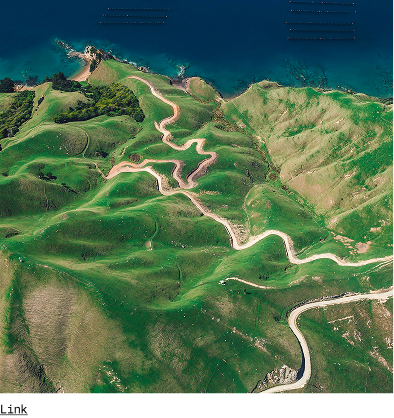
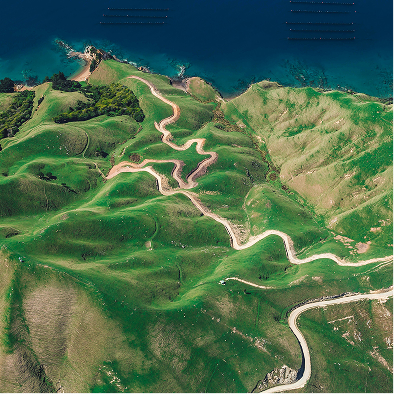
Adding structure and style for how-to

diff --git a/MPL.html b/MPL.html
@@ -299,8 +299,53 @@
                     </div>
                 </div>
             </section>
-            <section id="how-to" class="how-to"></section>
-            <section id="contact" class="contact"></section>
+            <section id="how-to" class="how-to">
+                <div class="container">
+                    <div class="how-to-wrapper">
+                        <div class="how-to-top">
+                            <h2>Map Your Success</h2>
+                            <a href="#" class="button" target="_blank">Discover More</a>
+                        </div>
+                        <div class="lockup">
+                            <article class="lockup-card">
+                                <p class="card-number">01</p>
+                                <div class="card-content">
+                                    <h3>Get started</h3>
+                                    <p>With our intuitive setup, you’re up and running in minutes.</p>
+                                </div>
+                            </article>
+                            <article class="lockup-card">
+                                <p class="card-number">02</p>
+                                <div class="card-content">
+                                    <h3>Customize and Configure</h3>
+                                    <p>Adapt Area to your specific requirements and preferences.</p>
+                                </div>
+                            </article>
+                            <article class="lockup-card">
+                                <p class="card-number">03</p>
+                                <div class="card-content">
+                                    <h3>Grow Your Business</h3>
+                                    <p>Make informed decisions to exceed your goals.</p>
+                                </div>
+                            </article>
+                        </div>
+                    </div>
+                    <img src="img/Image 2.jpg" alt="An eye-catching landscape of green">
+                </div>
+            </section>
+            <section id="contact" class="contact">
+                <div class="container">
+                    <div class="contact-wrapper">
+                        <h2>Connect with us</h2>
+                        <p>Schedule a quick call to learn how Area can turn your regional data into a powerful advantage.</p>
+                        <a href="#" class="button">Learn More
+                            <svg width="6" height="7" viewBox="0 0 6 7" fill="none" xmlns="http://www.w3.org/2000/svg">
+                                <path d="M5.01037 4.9934V1.05184L5.64939 1.09142L0.735155 6.01131L0 5.27615L4.91423 0.361923L4.96513 1.00094H1.0066V0L6 0.0113101V4.9934H5.01037Z" fill="white"/>
+                            </svg>
+                        </a>
+                    </div>
+                </div>
+            </section>
         <footer>
             <div class="container">
                 <div class="links"></div>

diff --git a/MPL.css b/MPL.css
@@ -413,3 +413,82 @@ p.number {
     letter-spacing: -0.003em;
     color: #485C11;
 }
+
+/*how-to*/
+.how-to-wrapper {
+    padding: 80px 0 100px 0;
+    border-top: 1px solid #E5E5E5;
+
+    display: flex;
+    flex-direction: column;
+    gap: 80px;
+}
+
+.how-to-top {
+    max-width: 343px;
+    display: flex;
+    flex-direction: column;
+    align-items: start;
+    gap: 40px;
+
+    padding: 0;
+    border-bottom: 1px solid #E5E5E5;
+}
+
+.lockup {
+    width: 100%;
+    max-width: 343px;
+    display: flex;
+    gap: 20px;
+    overflow-x: auto;
+
+    scrollbar-width: none;
+}
+
+.lockup-card {
+    flex: 0 0 240px;
+    display: flex;
+    flex-direction: column;
+    gap: 60px;
+}
+
+.card-content {
+    display: flex;
+    flex-direction: column;
+    gap: 20px;
+}
+
+.lockup-card p {
+    font-family: 'DM Sans';
+    font-size: 15px;
+    font-weight: 400;
+    letter-spacing: -0.5%;
+    color: #6F6F6F;
+    text-align: left;
+}
+
+.lockup-card .card-number {
+    font-family: 'DM Sans';
+    font-size: 64px;
+    font-weight: 400;
+    letter-spacing: -4%;
+    color: #929292;
+}
+
+.lockup-card h3 {
+    font-size: 18px;
+    font-weight: 400;
+    letter-spacing: -3%;
+}
+
+.how-to img {
+    display: block;
+
+    max-width: 100%;
+    width: 343px;
+    height: 600px;
+
+    border-radius: 30px;
+    object-fit: cover;
+    margin-bottom: 40px;
+}
